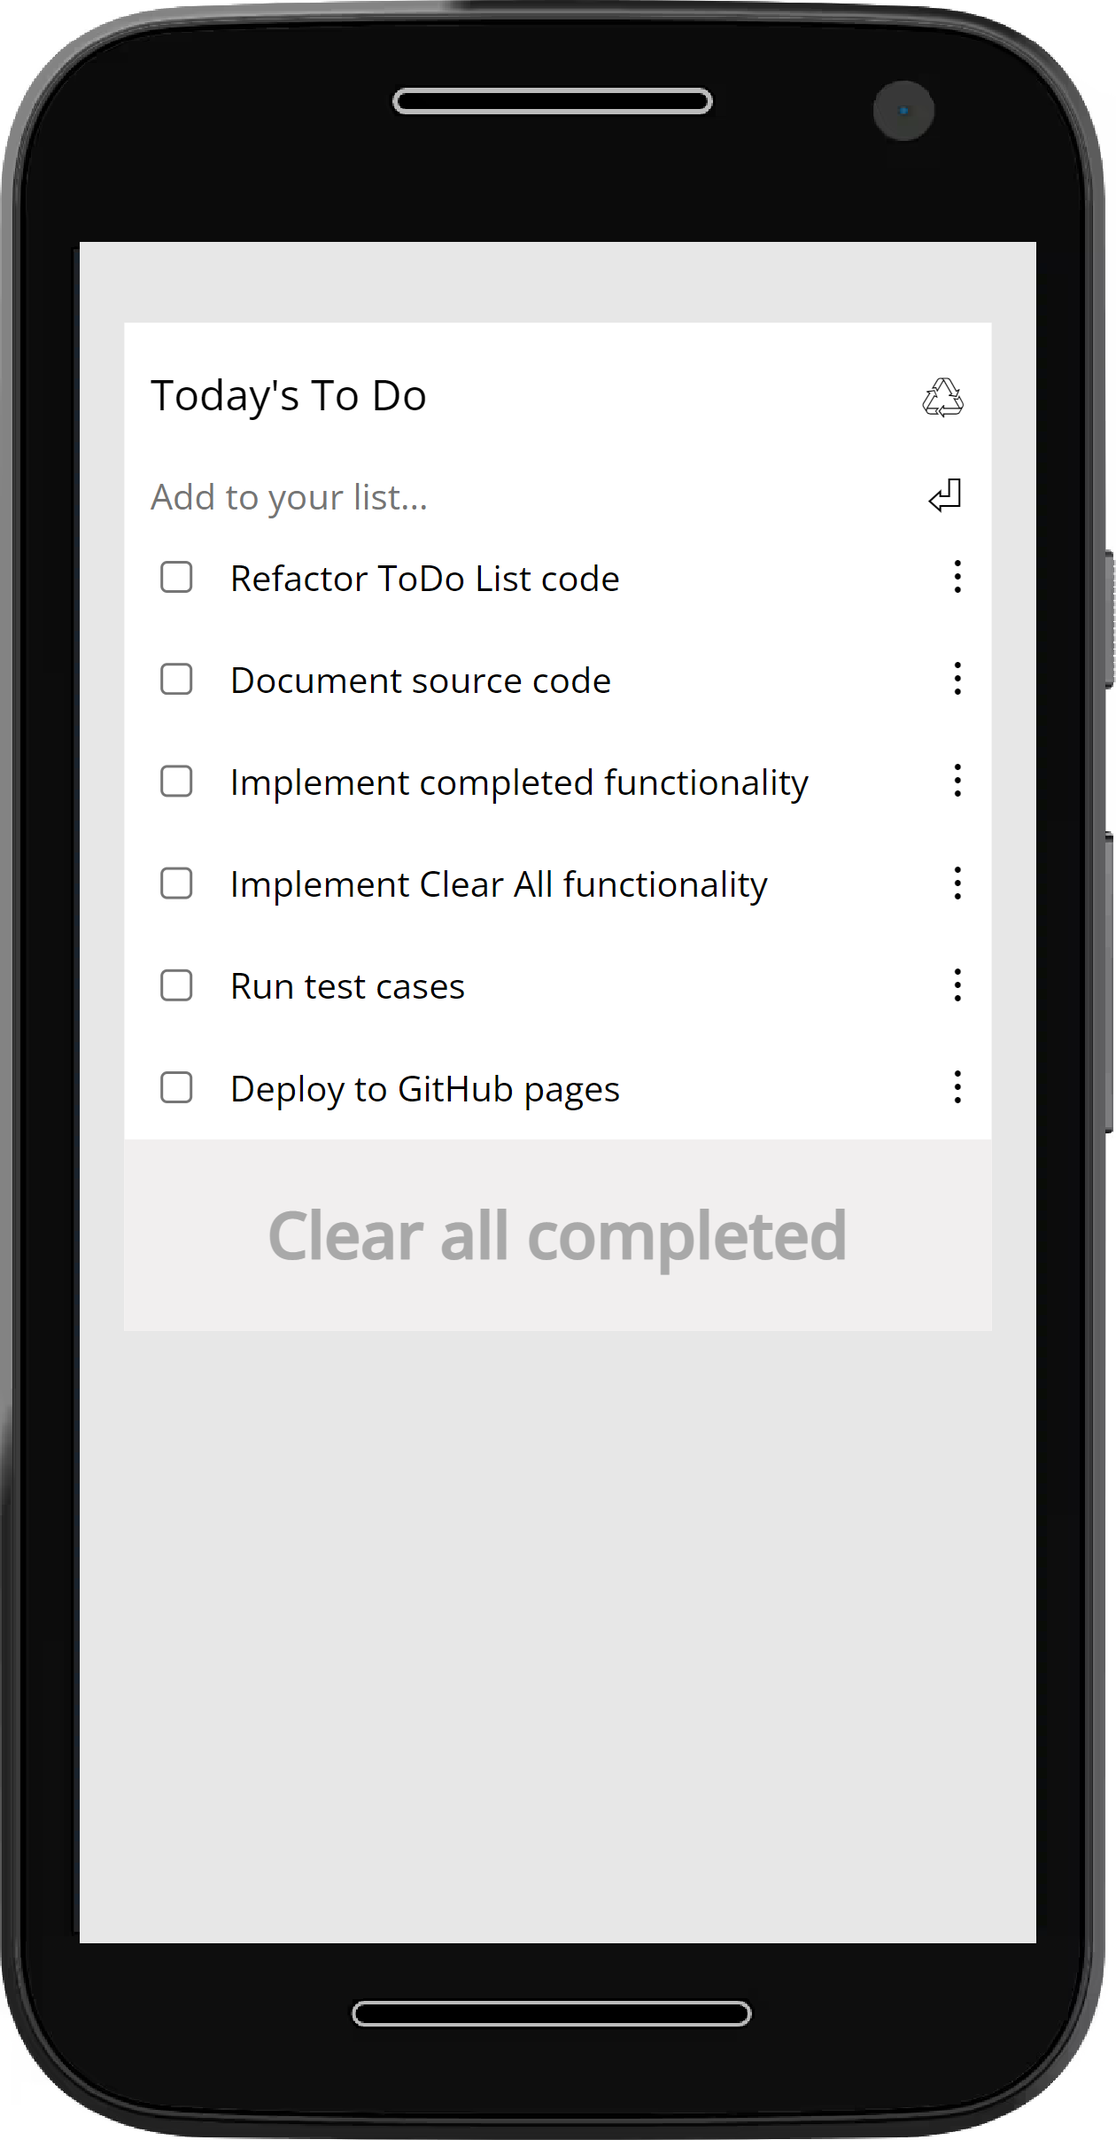
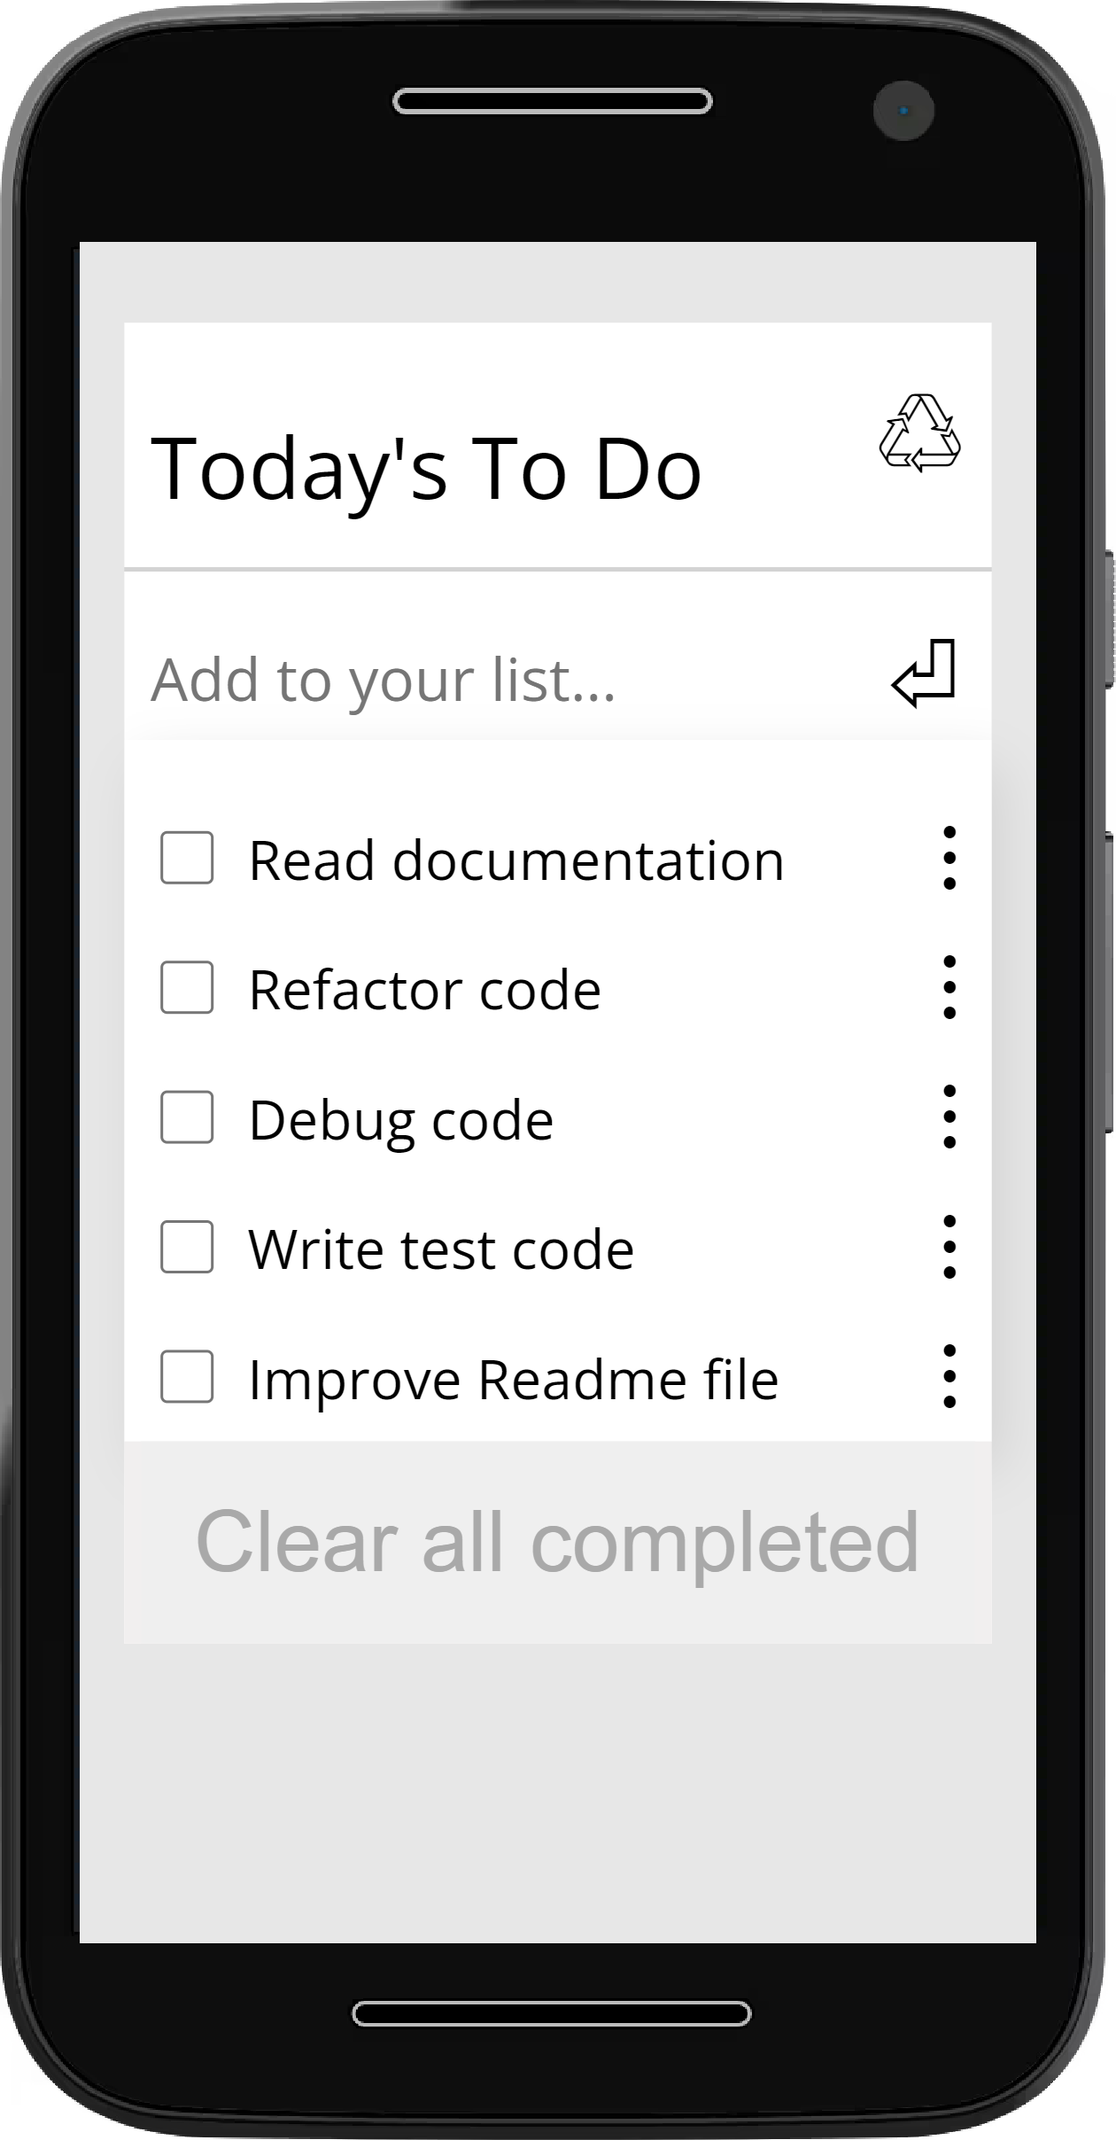
Fix task description color when loading
On loading when task is completed, the right color is applied
Update Readme file

modified:   desktop.png
modified:   dist/main.js
modified:   mobile.png
modified:   src/app.js
modified:   tablet.png

diff --git a/dist/main.js b/dist/main.js
@@ -16,7 +16,7 @@
   \*************************************************************/
 /***/ ((module, __webpack_exports__, __webpack_require__) => {
 
-eval("__webpack_require__.r(__webpack_exports__);\n/* harmony export */ __webpack_require__.d(__webpack_exports__, {\n/* harmony export */   \"default\": () => (__WEBPACK_DEFAULT_EXPORT__)\n/* harmony export */ });\n/* harmony import */ var _node_modules_css_loader_dist_runtime_noSourceMaps_js__WEBPACK_IMPORTED_MODULE_0__ = __webpack_require__(/*! ../node_modules/css-loader/dist/runtime/noSourceMaps.js */ \"./node_modules/css-loader/dist/runtime/noSourceMaps.js\");\n/* harmony import */ var _node_modules_css_loader_dist_runtime_noSourceMaps_js__WEBPACK_IMPORTED_MODULE_0___default = /*#__PURE__*/__webpack_require__.n(_node_modules_css_loader_dist_runtime_noSourceMaps_js__WEBPACK_IMPORTED_MODULE_0__);\n/* harmony import */ var _node_modules_css_loader_dist_runtime_api_js__WEBPACK_IMPORTED_MODULE_1__ = __webpack_require__(/*! ../node_modules/css-loader/dist/runtime/api.js */ \"./node_modules/css-loader/dist/runtime/api.js\");\n/* harmony import */ var _node_modules_css_loader_dist_runtime_api_js__WEBPACK_IMPORTED_MODULE_1___default = /*#__PURE__*/__webpack_require__.n(_node_modules_css_loader_dist_runtime_api_js__WEBPACK_IMPORTED_MODULE_1__);\n// Imports\n\n\nvar ___CSS_LOADER_EXPORT___ = _node_modules_css_loader_dist_runtime_api_js__WEBPACK_IMPORTED_MODULE_1___default()((_node_modules_css_loader_dist_runtime_noSourceMaps_js__WEBPACK_IMPORTED_MODULE_0___default()));\n___CSS_LOADER_EXPORT___.push([module.id, \"@import url(https://fonts.googleapis.com/css2?family=Noto+Sans:ital,wght@0,700;1,400&display=swap);\"]);\n___CSS_LOADER_EXPORT___.push([module.id, \"@import url(https://fonts.googleapis.com/css2?family=Open+Sans:wght@300;400;500&display=swap);\"]);\n// Module\n___CSS_LOADER_EXPORT___.push([module.id, \"* {\\n  border: 0;\\n  padding: 0;\\n  box-sizing: border-box;\\n}\\n\\nbody {\\n  font-family: \\\"Open Sans\\\", sans-serif;\\n  font-weight: 400;\\n  background-color: #e7e7e7;\\n  font-size: 2rem;\\n}\\n\\n.main-container {\\n  display: flex;\\n  flex-direction: column;\\n  margin: 30px auto;\\n  width: 50%;\\n  background-color: white;\\n}\\n\\n@media (max-width: 1120px) {\\n  .main-container {\\n    width: 95%;\\n  }\\n}\\n\\nhr {\\n  background-color: lightgray;\\n  border: 1px lightgray solid;\\n  width: 100%;\\n}\\n\\n.row-header {\\n  display: flex;\\n  align-items: center;\\n\\n}\\n\\n.row-header p {\\n  margin-bottom: 0;\\n}\\n\\n.row {\\n  display: flex;\\n  justify-content: space-between;\\n  padding: 0 10px;\\n  align-items: center;\\n}\\n\\n.row button {\\n  background-color: transparent;\\n  border: none;\\n  font-size: larger;\\n}\\n\\n.row-input input {\\n  font-family: inherit;\\n  font-size: 1.4rem;\\n  background-color: inherit;\\n  outline: none;\\n  width: 90%;\\n}\\n\\n.row-input button {\\n  cursor: pointer;\\n}\\n\\n.task-container {\\n  padding-top: 20px;\\n  box-shadow: 5px 10px 20px 0 lightgrey;\\n}\\n\\n.task {\\n  display: flex;\\n  align-items: center;\\n  flex: 2;\\n}\\n\\n.check {\\n  width: 1.3rem;\\n  height: 1.3rem;\\n}\\n\\n.move-btn {\\n  cursor: move;\\n}\\n\\n.delete-btn {\\n  display: none;\\n  cursor: pointer;\\n}\\n\\n.task-description {\\n  border: none;\\n  border-width: 0;\\n  outline: none;\\n  margin: 10px;\\n  background-color: inherit;\\n  width: 90%;\\n  font-family: inherit;\\n  font-size: 1.3rem;\\n}\\n\\nfooter {\\n  background-color: #f1efef;\\n}\\n\\n.row-task.over {\\n  border: 3px solid blue;\\n}\\n\\n.clear-completed {\\n  text-align: center;\\n  color: darkgray;\\n  padding: 20px;\\n  font-size: 2rem;\\n  margin: 0 auto;\\n  display: block;\\n  cursor: pointer;\\n}\\n\\n.clear-completed:hover {\\n  text-decoration: underline;\\n  color: black;\\n}\\n\", \"\"]);\n// Exports\n/* harmony default export */ const __WEBPACK_DEFAULT_EXPORT__ = (___CSS_LOADER_EXPORT___);\n\n\n//# sourceURL=webpack://todolist/./src/style.css?./node_modules/css-loader/dist/cjs.js");
+eval("__webpack_require__.r(__webpack_exports__);\n/* harmony export */ __webpack_require__.d(__webpack_exports__, {\n/* harmony export */   \"default\": () => (__WEBPACK_DEFAULT_EXPORT__)\n/* harmony export */ });\n/* harmony import */ var _node_modules_css_loader_dist_runtime_noSourceMaps_js__WEBPACK_IMPORTED_MODULE_0__ = __webpack_require__(/*! ../node_modules/css-loader/dist/runtime/noSourceMaps.js */ \"./node_modules/css-loader/dist/runtime/noSourceMaps.js\");\n/* harmony import */ var _node_modules_css_loader_dist_runtime_noSourceMaps_js__WEBPACK_IMPORTED_MODULE_0___default = /*#__PURE__*/__webpack_require__.n(_node_modules_css_loader_dist_runtime_noSourceMaps_js__WEBPACK_IMPORTED_MODULE_0__);\n/* harmony import */ var _node_modules_css_loader_dist_runtime_api_js__WEBPACK_IMPORTED_MODULE_1__ = __webpack_require__(/*! ../node_modules/css-loader/dist/runtime/api.js */ \"./node_modules/css-loader/dist/runtime/api.js\");\n/* harmony import */ var _node_modules_css_loader_dist_runtime_api_js__WEBPACK_IMPORTED_MODULE_1___default = /*#__PURE__*/__webpack_require__.n(_node_modules_css_loader_dist_runtime_api_js__WEBPACK_IMPORTED_MODULE_1__);\n// Imports\n\n\nvar ___CSS_LOADER_EXPORT___ = _node_modules_css_loader_dist_runtime_api_js__WEBPACK_IMPORTED_MODULE_1___default()((_node_modules_css_loader_dist_runtime_noSourceMaps_js__WEBPACK_IMPORTED_MODULE_0___default()));\n___CSS_LOADER_EXPORT___.push([module.id, \"@import url(https://fonts.googleapis.com/css2?family=Noto+Sans:ital,wght@0,700;1,400&display=swap);\"]);\n___CSS_LOADER_EXPORT___.push([module.id, \"@import url(https://fonts.googleapis.com/css2?family=Open+Sans:wght@300;400;500&display=swap);\"]);\n// Module\n___CSS_LOADER_EXPORT___.push([module.id, \"* {\\n  border: 0;\\n  padding: 0;\\n  box-sizing: border-box;\\n}\\n\\nbody {\\n  font-family: \\\"Open Sans\\\", sans-serif;\\n  font-weight: 400;\\n  background-color: #e7e7e7;\\n  font-size: 2rem;\\n}\\n\\n.main-container {\\n  display: flex;\\n  flex-direction: column;\\n  margin: 30px auto;\\n  width: 50%;\\n  background-color: white;\\n}\\n\\n@media (max-width: 1120px) {\\n  .main-container {\\n    width: 95%;\\n  }\\n}\\n\\nhr {\\n  background-color: lightgray;\\n  border: 1px lightgray solid;\\n  width: 100%;\\n}\\n\\n.row-header {\\n  display: flex;\\n  align-items: center;\\n}\\n\\n.row-header p {\\n  margin-bottom: 0;\\n}\\n\\n.row {\\n  display: flex;\\n  justify-content: space-between;\\n  padding: 0 10px;\\n  align-items: center;\\n}\\n\\n.row button {\\n  background-color: transparent;\\n  border: none;\\n  font-size: larger;\\n}\\n\\n.row-input input {\\n  font-family: inherit;\\n  font-size: 1.4rem;\\n  background-color: inherit;\\n  outline: none;\\n  width: 90%;\\n}\\n\\n.row-input button {\\n  cursor: pointer;\\n}\\n\\n.task-container {\\n  padding-top: 20px;\\n  box-shadow: 5px 10px 20px 0 lightgrey;\\n}\\n\\n.task {\\n  display: flex;\\n  align-items: center;\\n  flex: 2;\\n}\\n\\n.check {\\n  width: 1.3rem;\\n  height: 1.3rem;\\n}\\n\\n.move-btn {\\n  cursor: move;\\n}\\n\\n.delete-btn {\\n  display: none;\\n  cursor: pointer;\\n}\\n\\n.task-description {\\n  border: none;\\n  border-width: 0;\\n  outline: none;\\n  margin: 10px;\\n  background-color: inherit;\\n  width: 90%;\\n  font-family: inherit;\\n  font-size: 1.3rem;\\n}\\n\\nfooter {\\n  background-color: #f1efef;\\n}\\n\\n.row-task.over {\\n  border: 3px solid blue;\\n}\\n\\n.clear-completed {\\n  text-align: center;\\n  color: darkgray;\\n  padding: 20px;\\n  font-size: 2rem;\\n  margin: 0 auto;\\n  display: block;\\n  cursor: pointer;\\n}\\n\\n.clear-completed:hover {\\n  text-decoration: underline;\\n  color: black;\\n}\\n\", \"\"]);\n// Exports\n/* harmony default export */ const __WEBPACK_DEFAULT_EXPORT__ = (___CSS_LOADER_EXPORT___);\n\n\n//# sourceURL=webpack://todolist/./src/style.css?./node_modules/css-loader/dist/cjs.js");
 
 /***/ }),
 
@@ -116,7 +116,7 @@ eval("\n\n/* istanbul ignore next  */\nfunction styleTagTransform(css, styleElem
   \********************/
 /***/ ((__unused_webpack_module, __webpack_exports__, __webpack_require__) => {
 
-eval("__webpack_require__.r(__webpack_exports__);\n/* harmony export */ __webpack_require__.d(__webpack_exports__, {\n/* harmony export */   \"default\": () => (__WEBPACK_DEFAULT_EXPORT__)\n/* harmony export */ });\n/* harmony import */ var _tasksList_js__WEBPACK_IMPORTED_MODULE_0__ = __webpack_require__(/*! ./tasksList.js */ \"./src/tasksList.js\");\n\n\nclass App {\n  constructor() {\n    this.taskList = new _tasksList_js__WEBPACK_IMPORTED_MODULE_0__[\"default\"]();\n  }\n\n  displayTaskCards() {\n    this.taskList.saveDataToStorage();\n    const taskContainer = document.querySelector('.task-container');\n    const taskTemplate = document.getElementById('task-template');\n    taskContainer.innerHTML = '';\n    this.taskList.taskListArray.forEach((task) => {\n      const taskCard = taskTemplate.content.cloneNode(true).children[0];\n      const checkBox = taskCard.querySelector('.check');\n      const descriptionInput = taskCard.querySelector('.task-description');\n      const taskButton = taskCard.querySelector('.row-task button');\n      const deleteButton = taskCard.querySelector('.delete-btn');\n      checkBox.checked = task.completed ? 'checked' : '';\n      checkBox.addEventListener('change', (e) => {\n        const grandParent = e.target.parentNode.parentNode;\n        if (e.target.checked) {\n          grandParent.querySelector('.task-description').style.textDecoration = 'line-through';\n          grandParent.querySelector('.task-description').style.color = 'lightgrey';\n        } else {\n          grandParent.querySelector('.task-description').style.textDecoration = 'none';\n          grandParent.querySelector('.task-description').style.color = 'inherit';\n        }\n        this.taskList.updateTaskStatus(grandParent.querySelector('.delete-btn').dataset.id, e.target.checked);\n      });\n      descriptionInput.value = task.description;\n      if (task.completed) {\n        descriptionInput.style.textDecoration = 'line-through';\n      } else {\n        descriptionInput.style.textDecoration = 'none';\n      }\n      taskButton.setAttribute('data-id', task.index);\n      deleteButton.setAttribute('data-id', task.index);\n      descriptionInput.addEventListener('input', (e) => {\n        const grandParent = e.target.parentNode.parentNode;\n        grandParent.style.backgroundColor = 'lightgoldenrodyellow';\n        grandParent.querySelector('.delete-btn').style.display = 'block';\n        grandParent.querySelector('.move-btn').style.display = 'none';\n      });\n\n      descriptionInput.addEventListener('blur', (e) => {\n        const grandParent = e.target.parentNode.parentNode;\n        grandParent.style.backgroundColor = 'inherit';\n        const index = e.target.parentNode.parentNode.querySelector('.delete-btn').dataset.id;\n        this.taskList.updateTaskDescription(index, e.target.value);\n        setTimeout(() => {\n          grandParent.querySelector('.delete-btn').style.display = 'none';\n          grandParent.querySelector('.move-btn').style.display = 'block';\n        }, 200);\n      });\n      deleteButton.addEventListener('click', (e) => {\n        this.taskList.deleteTask(e.target.dataset.id);\n        this.displayTaskCards();\n      });\n      taskContainer.appendChild(taskCard);\n    });\n  }\n\n  addNewTask(e) {\n    if (e.value === '') return;\n    this.taskList.addNewTask(e.value);\n    this.displayTaskCards();\n    e.value = '';\n    e.focus();\n  }\n\n  AddListeners() {\n    document.querySelector('.row-input input').addEventListener('keypress', (e) => {\n      if (e.code === 'Enter') {\n        this.addNewTask(e.target);\n      }\n    });\n    document.querySelector('.row-input button').addEventListener('click', () => {\n      const e = document.querySelector('.row-input input');\n      this.addNewTask(e);\n    });\n    document.querySelector('.clear-completed').addEventListener('click', () => {\n      this.taskList.clearAllCompleted();\n      this.displayTaskCards();\n    });\n    document.addEventListener('dragstart', (e) => {\n      // Event handlers for card's drag operations\n      if (e.target.matches('.row-task')) {\n        e.target.style.opacity = '0.4';\n        this.dragSourceElement = e.target;\n        this.dragSourceID = e.target.querySelector('.move-btn').dataset.id;\n      }\n    });\n    document.addEventListener('dragend', (e) => {\n      if (e.target.matches('.row-task')) {\n        e.target.style.opacity = '1';\n        e.target.classList.remove('over');\n      }\n    });\n    document.addEventListener('dragenter', (e) => {\n      if (e.target.matches('.row-task')) {\n        e.target.classList.add('over');\n      }\n    });\n    document.addEventListener('dragleave', (e) => {\n      if (e.target.matches('.row-task')) {\n        e.target.classList.remove('over');\n      }\n    });\n    document.addEventListener('dragover', (e) => {\n      e.preventDefault();\n    });\n    document.addEventListener('drop', (e) => {\n      e.preventDefault();\n      if (e.target.matches('.row-task')) {\n        e.stopPropagation();\n        if (this.dragSourceElement !== e.target) {\n          this.dragTargetID = e.target.querySelector('.move-btn').dataset.id;\n          this.taskList.swapPositions(this.dragTargetID, this.dragSourceID);\n          e.target.classList.remove('over');\n          this.displayTaskCards();\n        }\n      }\n    });\n  }\n}\n\n/* harmony default export */ const __WEBPACK_DEFAULT_EXPORT__ = (App);\n\n//# sourceURL=webpack://todolist/./src/app.js?");
+eval("__webpack_require__.r(__webpack_exports__);\n/* harmony export */ __webpack_require__.d(__webpack_exports__, {\n/* harmony export */   \"default\": () => (__WEBPACK_DEFAULT_EXPORT__)\n/* harmony export */ });\n/* harmony import */ var _tasksList_js__WEBPACK_IMPORTED_MODULE_0__ = __webpack_require__(/*! ./tasksList.js */ \"./src/tasksList.js\");\n\n\nclass App {\n  constructor() {\n    this.taskList = new _tasksList_js__WEBPACK_IMPORTED_MODULE_0__[\"default\"]();\n  }\n\n  displayTaskCards() {\n    this.taskList.saveDataToStorage();\n    const taskContainer = document.querySelector('.task-container');\n    const taskTemplate = document.getElementById('task-template');\n    taskContainer.innerHTML = '';\n    this.taskList.taskListArray.forEach((task) => {\n      const taskCard = taskTemplate.content.cloneNode(true).children[0];\n      const checkBox = taskCard.querySelector('.check');\n      const descriptionInput = taskCard.querySelector('.task-description');\n      const taskButton = taskCard.querySelector('.row-task button');\n      const deleteButton = taskCard.querySelector('.delete-btn');\n      checkBox.checked = task.completed ? 'checked' : '';\n      if (task.completed) descriptionInput.style.color = 'lightgrey';\n      checkBox.addEventListener('change', (e) => {\n        const grandParent = e.target.parentNode.parentNode;\n        if (e.target.checked) {\n          grandParent.querySelector('.task-description').style.textDecoration = 'line-through';\n          grandParent.querySelector('.task-description').style.color = 'lightgrey';\n        } else {\n          grandParent.querySelector('.task-description').style.textDecoration = 'none';\n          grandParent.querySelector('.task-description').style.color = 'inherit';\n        }\n        this.taskList.updateTaskStatus(grandParent.querySelector('.delete-btn').dataset.id, e.target.checked);\n      });\n      descriptionInput.value = task.description;\n      if (task.completed) {\n        descriptionInput.style.textDecoration = 'line-through';\n      } else {\n        descriptionInput.style.textDecoration = 'none';\n      }\n      taskButton.setAttribute('data-id', task.index);\n      deleteButton.setAttribute('data-id', task.index);\n      descriptionInput.addEventListener('input', (e) => {\n        const grandParent = e.target.parentNode.parentNode;\n        grandParent.style.backgroundColor = 'lightgoldenrodyellow';\n        grandParent.querySelector('.delete-btn').style.display = 'block';\n        grandParent.querySelector('.move-btn').style.display = 'none';\n      });\n\n      descriptionInput.addEventListener('blur', (e) => {\n        const grandParent = e.target.parentNode.parentNode;\n        grandParent.style.backgroundColor = 'inherit';\n        const index = e.target.parentNode.parentNode.querySelector('.delete-btn').dataset.id;\n        this.taskList.updateTaskDescription(index, e.target.value);\n        setTimeout(() => {\n          grandParent.querySelector('.delete-btn').style.display = 'none';\n          grandParent.querySelector('.move-btn').style.display = 'block';\n        }, 200);\n      });\n      deleteButton.addEventListener('click', (e) => {\n        this.taskList.deleteTask(e.target.dataset.id);\n        this.displayTaskCards();\n      });\n      taskContainer.appendChild(taskCard);\n    });\n  }\n\n  addNewTask(e) {\n    if (e.value === '') return;\n    this.taskList.addNewTask(e.value);\n    this.displayTaskCards();\n    e.value = '';\n    e.focus();\n  }\n\n  AddListeners() {\n    document.querySelector('.row-input input').addEventListener('keypress', (e) => {\n      if (e.code === 'Enter') {\n        this.addNewTask(e.target);\n      }\n    });\n    document.querySelector('.row-input button').addEventListener('click', () => {\n      const e = document.querySelector('.row-input input');\n      this.addNewTask(e);\n    });\n    document.querySelector('.clear-completed').addEventListener('click', () => {\n      this.taskList.clearAllCompleted();\n      this.displayTaskCards();\n    });\n    document.addEventListener('dragstart', (e) => {\n      // Event handlers for card's drag operations\n      if (e.target.matches('.row-task')) {\n        e.target.style.opacity = '0.4';\n        this.dragSourceElement = e.target;\n        this.dragSourceID = e.target.querySelector('.move-btn').dataset.id;\n      }\n    });\n    document.addEventListener('dragend', (e) => {\n      if (e.target.matches('.row-task')) {\n        e.target.style.opacity = '1';\n        e.target.classList.remove('over');\n      }\n    });\n    document.addEventListener('dragenter', (e) => {\n      if (e.target.matches('.row-task')) {\n        e.target.classList.add('over');\n      }\n    });\n    document.addEventListener('dragleave', (e) => {\n      if (e.target.matches('.row-task')) {\n        e.target.classList.remove('over');\n      }\n    });\n    document.addEventListener('dragover', (e) => {\n      e.preventDefault();\n    });\n    document.addEventListener('drop', (e) => {\n      e.preventDefault();\n      if (e.target.matches('.row-task')) {\n        e.stopPropagation();\n        if (this.dragSourceElement !== e.target) {\n          this.dragTargetID = e.target.querySelector('.move-btn').dataset.id;\n          this.taskList.swapPositions(this.dragTargetID, this.dragSourceID);\n          e.target.classList.remove('over');\n          this.displayTaskCards();\n        }\n      }\n    });\n  }\n}\n\n/* harmony default export */ const __WEBPACK_DEFAULT_EXPORT__ = (App);\n\n//# sourceURL=webpack://todolist/./src/app.js?");
 
 /***/ }),
 

diff --git a/src/app.js b/src/app.js
@@ -17,6 +17,7 @@ class App {
       const taskButton = taskCard.querySelector('.row-task button');
       const deleteButton = taskCard.querySelector('.delete-btn');
       checkBox.checked = task.completed ? 'checked' : '';
+      if (task.completed) descriptionInput.style.color = 'lightgrey';
       checkBox.addEventListener('change', (e) => {
         const grandParent = e.target.parentNode.parentNode;
         if (e.target.checked) {
